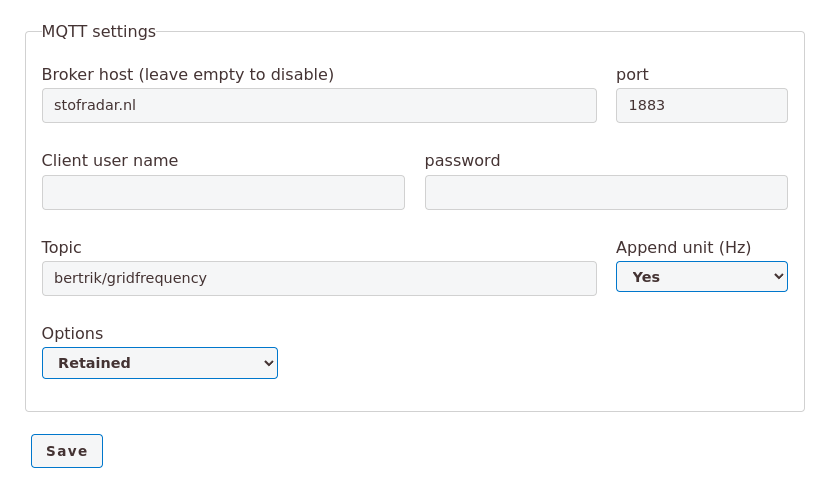
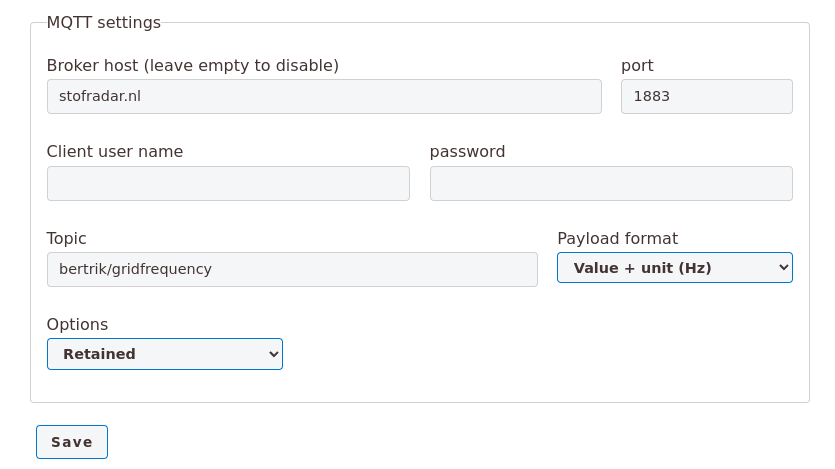
Instead of a boolean option to append a unit, use an combo to set the payload format.

diff --git a/data/config.html b/data/config.html
@@ -30,10 +30,11 @@
                 <label class="col">Topic
                     <input type="text" name="mqtt_topic" value="%mqtt_topic%" required>
                 </label>
-                <label class="col-3">Append unit (Hz)
-                    <select name="mqtt_append_unit">
-                        <option value="true" %mqtt_append_unit:true?selected%>Yes</option>
-                        <option value="false" %mqtt_append_unit:false?selected%>No</option>
+                <label class="col-4">Payload format
+                    <select name="mqtt_format">
+                        <option value="value" %mqtt_format:value?selected%>Value only</option>
+                        <option value="value_unit" %mqtt_format:value_unit?selected%>Value + unit (Hz)</option>
+                        <option value="json" %mqtt_format:json?selected%>Full JSON</option>
                     </select>
                 </label>
             </div>
